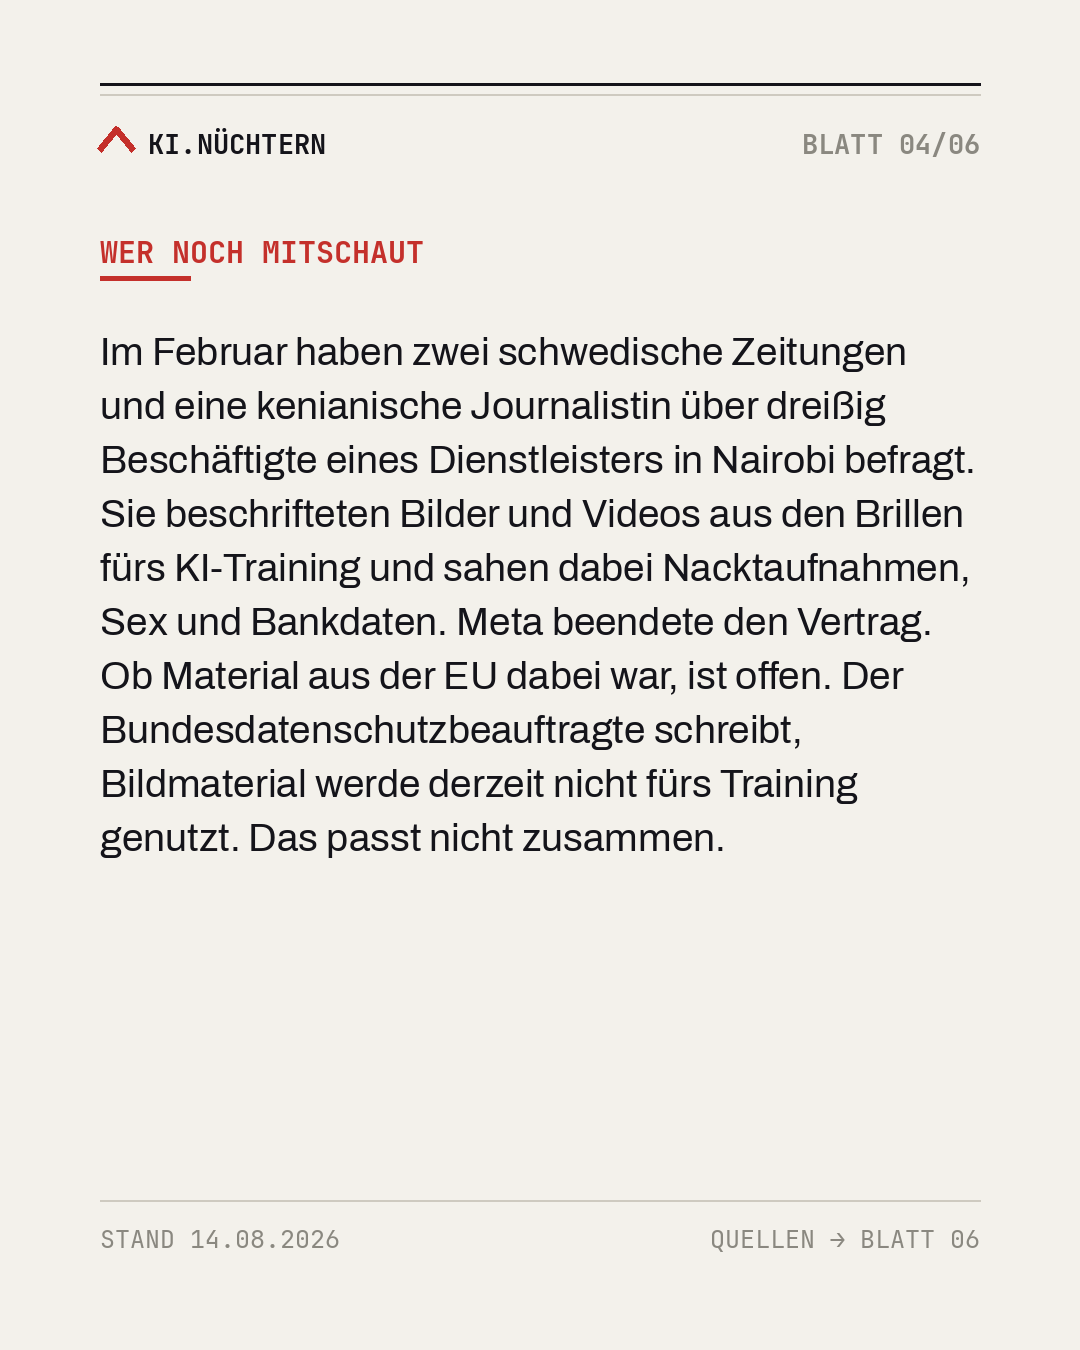
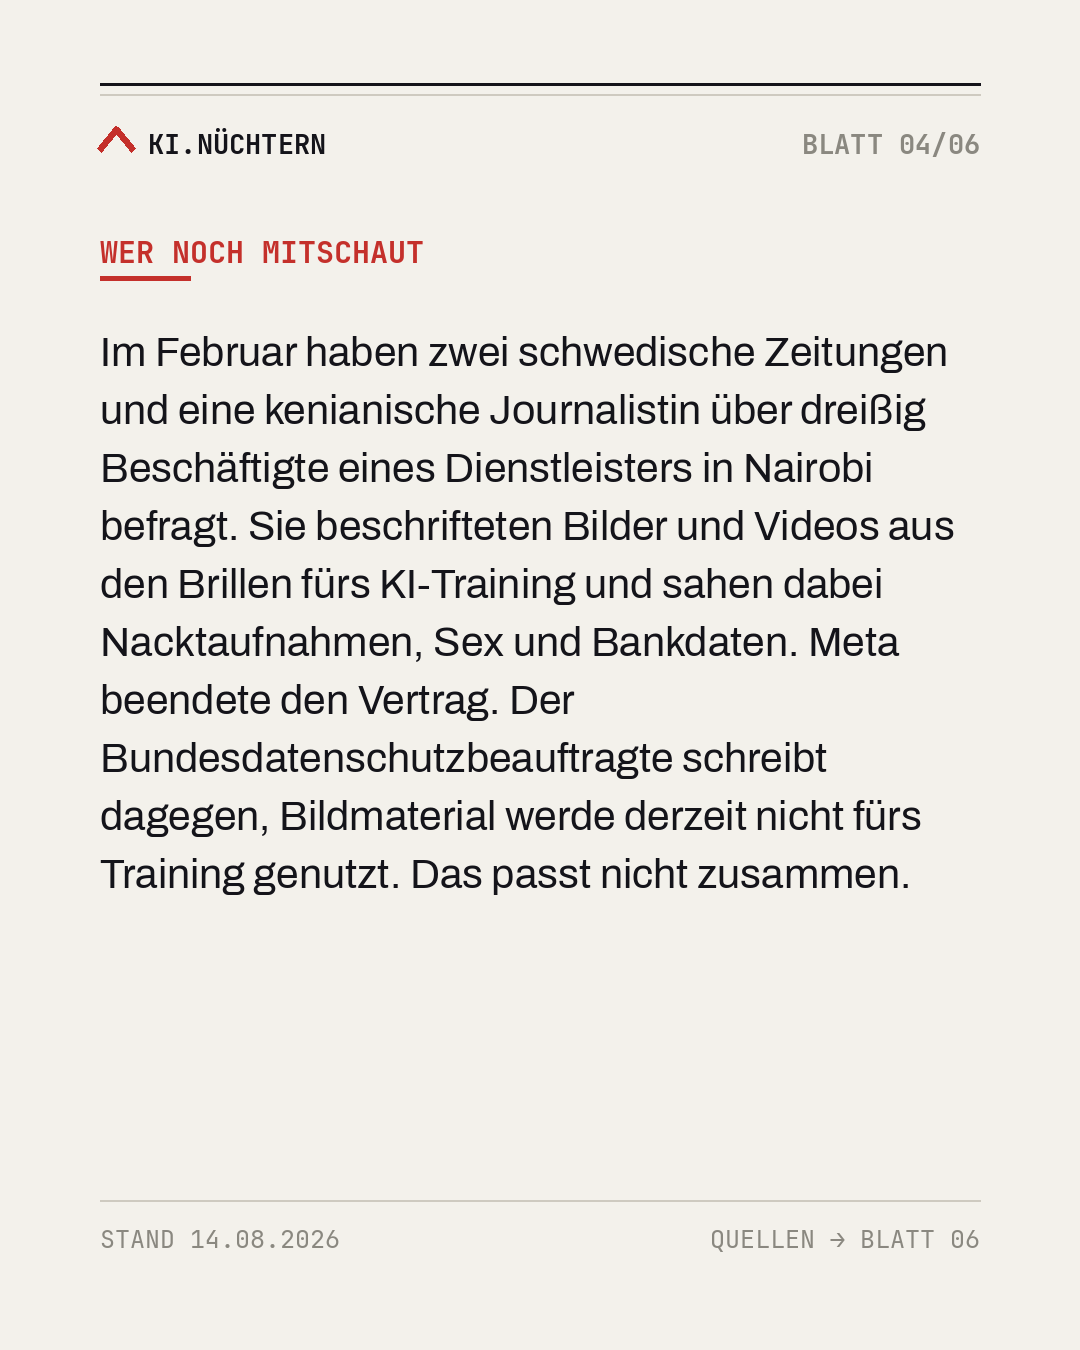
Post 10: Blatt-Texte um rund ein Viertel gekürzt, Textdichte an Post 9 angeglichen
Die Inhaltsblätter lagen im Schnitt bei 64 Wörtern, Post 9 bei 53. Jetzt
rund 48 Wörter je Blatt. Schriftgrößen wieder einheitlich auf 41/42,
statt auf 39 herunterskaliert. Caption entsprechend gestrafft, post.md
nachgezogen.

Claude-Session: https://claude.ai/code/session_01VpmRBZTZYpYDB8XJQn3xpE

Changed region(s): [[0.0917, 0.2489, 0.8861, 0.6844]]

diff --git a/render/build_slides.py b/render/build_slides.py
@@ -1230,13 +1230,12 @@ def build_post10():
     # --- 02 Was drinsteckt
     img, d = new(2, T, ST)
     y = kicker(d, 240, "Was drinsteckt")
-    block(d, y, "In der Brille sitzen eine Kamera und sechs Mikrofone. Die nehmen nach "
+    block(d, y, "In der Brille sitzen eine Kamera und sechs Mikrofone. Sie nehmen nach "
                 "Angaben des Bundesdatenschutzbeauftragten mindestens zwei Meter weit "
-                "auf. Die KI hat Zugriff auf die Kamera und wertet aus, was der Träger "
-                "gerade ansieht, etwa um ein Gebäude zu beschreiben. Die Übersetzung "
-                "läuft auf dem Gerät selbst. Ist die Cloud-Verarbeitung eingeschaltet, "
-                "gehen die Daten an Metas Server.",
-          f("BOOK", 41), INK, MAXW, 1.42)
+                "auf. Die KI greift auf die Kamera zu und wertet aus, was der Träger "
+                "gerade ansieht. Die Übersetzung läuft auf dem Gerät. Ist die "
+                "Cloud-Verarbeitung an, gehen die Daten an Metas Server.",
+          f("BOOK", 42), INK, MAXW, 1.44)
     slides.append(img)
 
     # --- 03 Was die Leuchte verrät
@@ -1245,8 +1244,7 @@ def build_post10():
     block(d, y, "Eine kleine Leuchtdiode am Rahmen zeigt an, dass aufgenommen wird. Für "
                 "reine Sprachaufnahmen gibt es diesen Hinweis nicht. Der Hamburger "
                 "Datenschutzbeauftragte hat die Brille testen lassen und hält die "
-                "Leuchte im Alltag für kaum wahrnehmbar. Bei Sonne oder Gegenlicht "
-                "sieht sie ohnehin niemand.",
+                "Leuchte im Alltag für kaum wahrnehmbar.",
           f("BOOK", 42), INK, MAXW, 1.44)
     slides.append(img)
 
@@ -1257,23 +1255,22 @@ def build_post10():
                 "Journalistin über dreißig Beschäftigte eines Dienstleisters in Nairobi "
                 "befragt. Sie beschrifteten Bilder und Videos aus den Brillen fürs "
                 "KI-Training und sahen dabei Nacktaufnahmen, Sex und Bankdaten. Meta "
-                "beendete den Vertrag. Ob Material aus der EU dabei war, ist offen. Der "
-                "Bundesdatenschutzbeauftragte schreibt, Bildmaterial werde derzeit "
-                "nicht fürs Training genutzt. Das passt nicht zusammen.",
-          f("BOOK", 39), INK, MAXW, 1.40)
+                "beendete den Vertrag. Der Bundesdatenschutzbeauftragte schreibt "
+                "dagegen, Bildmaterial werde derzeit nicht fürs Training genutzt. Das "
+                "passt nicht zusammen.",
+          f("BOOK", 41), INK, MAXW, 1.42)
     slides.append(img)
 
     # --- 05 Was für dich gilt
     img, d = new(5, T, ST)
     y = kicker(d, 232, "Was für dich gilt")
     block(d, y, "Wer damit Fremde auf der Straße filmt, verarbeitet deren "
-                "personenbezogene Daten. Die Ausnahme für rein private Zwecke greift "
-                "draußen nicht. Wer aufgenommen wird, kann seine Rechte laut "
+                "personenbezogene Daten. Die Ausnahme für private Zwecke greift draußen "
+                "nicht. Wer aufgenommen wird, kann seine Rechte laut "
                 "Datenschutzbeauftragtem nur eingeschränkt ausüben. Seit dem 12. August "
-                "läuft eine Strafanzeige gegen Meta und mehrere Händler. Ein Verbot "
-                "steht bisher nicht an: Die Bundesnetzagentur sieht die Voraussetzungen "
-                "dafür nicht erfüllt.",
-          f("BOOK", 39), INK, MAXW, 1.40)
+                "läuft eine Strafanzeige. Ein Verbot steht bisher nicht an, die "
+                "Bundesnetzagentur sieht die Voraussetzungen nicht erfüllt.",
+          f("BOOK", 41), INK, MAXW, 1.42)
     slides.append(img)
 
     # --- 06 Quellen

diff --git a/posts/post-010-meta-brille-ki/post.md b/posts/post-010-meta-brille-ki/post.md
@@ -3,7 +3,7 @@
 - **Säule:** Betrifft dich direkt
 - **Tag:** aktuell (HateAid-Strafanzeige vom 12.08.2026, Bundesnetzagentur prüft)
 - **Status:** gerendert (6 Blätter, 14.08.2026)
-- **Blätter:** 6
+- **Blätter:** 6 (Textdichte auf Post-9-Niveau, rund 50 Wörter je Inhaltsblatt)
 - **Warum jetzt / warum stark:** Über sieben Millionen verkaufte Geräte, und seit dem 12. August läuft eine
   Strafanzeige gegen Meta und vier Händlerketten. Der Post erklärt, was technisch drinsteckt, statt nur
   zu warnen, und korrigiert die verbreitete Schlagzeile „Verbot droht".
@@ -18,35 +18,32 @@
 | Blatt | Kicker | Inhalt |
 |-------|--------|--------|
 | 01 | Hook | **DIE BRILLE SIEHT, WAS DU SIEHST. UND HÖRT ZWEI METER WEIT.** Über sieben Millionen sind verkauft. Ansehen kann man ihnen das kaum. |
-| 02 | Was drinsteckt | Kamera und sechs Mikrofone, laut BfDI mindestens zwei Meter Reichweite. Die KI greift auf die Kamera zu und wertet aus, was der Träger ansieht. Live-Übersetzung läuft lokal, bei eingeschalteter Cloud-Verarbeitung gehen Daten an Metas Server. |
-| 03 | Was die Leuchte verrät | LED zeigt Foto und Video an. Für reine Sprachaufnahmen gibt es keinen Hinweis. Der Hamburger Datenschutzbeauftragte hält die Leuchte im Alltag für kaum wahrnehmbar. |
-| 04 | Wer noch mitschaut | Februar 2026, Nairobi: über dreißig Beschäftigte beschrifteten Material aus den Brillen fürs KI-Training und sahen Nacktaufnahmen, Sex und Bankdaten. Meta beendete den Vertrag, 1.108 Menschen verloren die Arbeit. Ob EU-Material dabei war, ist offen. |
-| 05 | Was für dich gilt | Wer Fremde filmt, verarbeitet deren Daten, die Privatausnahme greift draußen nicht. Aufgenommene können ihre Rechte laut BfDI kaum ausüben. Seit 12. August läuft eine Strafanzeige. Die Bundesnetzagentur sieht bislang keinen Verbotsgrund. |
+| 02 | Was drinsteckt | Kamera und sechs Mikrofone, laut BfDI mindestens zwei Meter Reichweite. Die KI greift auf die Kamera zu und wertet aus, was der Träger ansieht. Übersetzung läuft auf dem Gerät, bei aktiver Cloud-Verarbeitung gehen Daten an Metas Server. |
+| 03 | Was die Leuchte verrät | LED zeigt an, dass aufgenommen wird. Für reine Sprachaufnahmen gibt es keinen Hinweis. Der Hamburger Datenschutzbeauftragte hält die Leuchte im Alltag für kaum wahrnehmbar. |
+| 04 | Wer noch mitschaut | Februar 2026, Nairobi: über dreißig Beschäftigte beschrifteten Material aus den Brillen fürs KI-Training und sahen Nacktaufnahmen, Sex und Bankdaten. Meta beendete den Vertrag. Der BfDI schreibt dagegen, Bildmaterial werde derzeit nicht genutzt. Das passt nicht zusammen. |
+| 05 | Was für dich gilt | Wer Fremde filmt, verarbeitet deren Daten, die Privatausnahme greift draußen nicht. Aufgenommene können ihre Rechte laut BfDI kaum ausüben. Seit 12. August läuft eine Strafanzeige. Ein Verbot steht bisher nicht an, die Bundesnetzagentur sieht die Voraussetzungen nicht erfüllt. |
 | 06 | Quellen | BfDI-FAQ · HateAid 12.08.2026 · Svenska Dagbladet und Göteborgs-Posten · Kein Rechtsrat. |
 
 ## Caption (postfertig)
 
-> In den KI-Brillen von Meta stecken eine Kamera und sechs Mikrofone. Die Mikrofone nehmen nach Angaben des
-> Bundesdatenschutzbeauftragten mindestens zwei Meter weit auf. Die KI hat Zugriff auf die Kamera und
+> In den KI-Brillen von Meta stecken eine Kamera und sechs Mikrofone, die nach Angaben des
+> Bundesdatenschutzbeauftragten mindestens zwei Meter weit aufnehmen. Die KI greift auf die Kamera zu und
 > wertet aus, was der Träger gerade ansieht. Über sieben Millionen Geräte sind verkauft.
 >
-> Die kleine Leuchte am Rahmen zeigt Foto und Video an. Für reine Sprachaufnahmen gibt es diesen Hinweis
-> nicht. Der Hamburger Datenschutzbeauftragte hat die Brille testen lassen und hält die Leuchte im Alltag
-> für kaum wahrnehmbar.
+> Die Leuchte am Rahmen zeigt an, dass aufgenommen wird. Für reine Sprachaufnahmen gibt es diesen Hinweis
+> nicht, und im Alltag hält der Hamburger Datenschutzbeauftragte sie für kaum wahrnehmbar.
 >
 > Im Februar haben zwei schwedische Zeitungen und eine kenianische Journalistin über dreißig Beschäftigte
-> eines Dienstleisters in Nairobi befragt. Sie beschrifteten Bilder und Videos aus den Brillen fürs
-> KI-Training und sahen dabei Nacktaufnahmen, Sex und Bankdaten. Meta hat den Vertrag beendet. Ob auch
-> Material aus der EU dabei war, ist offen. Der Bundesdatenschutzbeauftragte schreibt, Bildmaterial werde
-> derzeit nicht zum Training verwendet. Das passt nicht zusammen, und ich kann es nicht auflösen.
+> eines Dienstleisters in Nairobi befragt. Sie beschrifteten Material aus den Brillen fürs KI-Training und
+> sahen dabei Nacktaufnahmen, Sex und Bankdaten. Meta hat den Vertrag beendet. Der
+> Bundesdatenschutzbeauftragte schreibt dagegen, Bildmaterial werde derzeit nicht zum Training verwendet.
+> Ob EU-Material betroffen war, ist offen. Ich kann den Widerspruch nicht auflösen und sage das lieber.
 >
-> Für dich heißt das zweierlei. Filmst du damit Fremde auf der Straße, verarbeitest du deren Daten, die
-> Ausnahme für private Zwecke greift dort nicht. Und wer aufgenommen wird, kann seine Rechte laut BfDI nur
-> eingeschränkt ausüben.
+> Filmst du damit Fremde auf der Straße, verarbeitest du deren Daten, die Ausnahme für private Zwecke
+> greift dort nicht. Wer aufgenommen wird, kann seine Rechte laut BfDI nur eingeschränkt ausüben.
 >
-> Noch eine Einordnung, weil es überall anders steht: Ein Verbot droht bisher nicht. HateAid hat am
-> 12. August Strafanzeige gestellt, die Bundesnetzagentur sagt aber, sie sehe die Voraussetzungen für ein
-> Verbot bei den bisher geprüften Modellen nicht erfüllt.
+> Und weil es überall anders steht: Ein Verbot droht bisher nicht. Die Bundesnetzagentur sieht die
+> Voraussetzungen bei den geprüften Modellen nicht erfüllt.
 >
 > Quellen auf dem letzten Blatt. Kein Rechtsrat.
 > Fehler gefunden? Schreib es in die Kommentare, ich korrigiere sichtbar.
